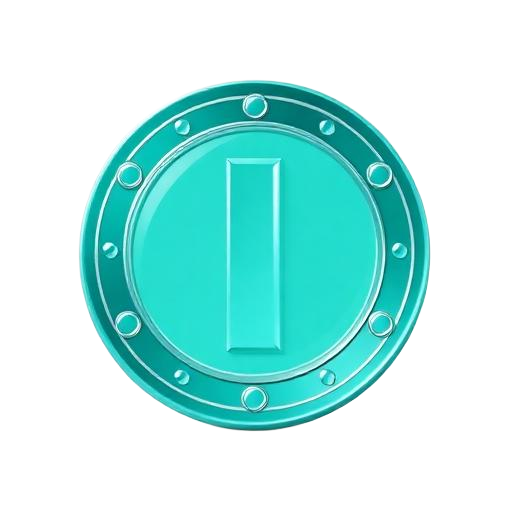
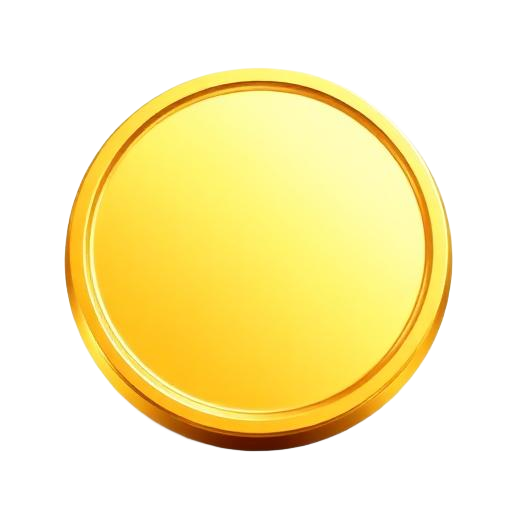
Changes

diff --git a/.lovable/plan.md b/.lovable/plan.md
@@ -1,62 +1,57 @@
-# Surface the Visual Recap CTA + verify the flow
+# Onboarding revamp + gold coins
 
-The `/recap` page already exists with everything you described:
-transcript paste + `.txt` upload, all 6 preference questions, `templateId =
-infoMode + "_" + visualMode`, 7-section recap, image slots (`coverHero`,
-`bigPictureScene`, `keyMoment_1..3`, `finalMemory`) generated server-side
-via Lovable AI, comic / zine / cards layout switch, cinematic loading
-state, premium dark UI. It's just missing a visible entry point.
+## 1. Gold coins (sitewide)
 
-## What to change
+- Delete `src/assets/coin-blue.png` (the originally uploaded reference).
+- Regenerate `src/assets/coin-cyan.png` and `src/assets/coin-navy.png` as
+  two gold variants (bright gold, deep amber-gold) using the same retro
+  3D coin look. Filenames stay the same so no import paths break.
+- Edit `src/components/floating-decor.tsx`: drop the `coin-blue` import
+  and remove it from the sprite pool. Other props (dice, joystick,
+  cassette, star, diamond) stay untouched.
 
-### 1. Add a prominent "Create Visual Recap" CTA on the attendee Home tab
+## 2. Onboarding `/` revamp (v1 "Arcade portal elite")
 
-In `src/routes/play.tsx`, in the Home tab (`tab === "home"`), add a new
-CTA card directly above the existing Event Wrapped CTA. Sibling design
-language — `bg-swoosh-2 hue-drift`, `<FloatingDecor variant="dense" />`,
-animated headline, navigates to `/recap`.
+Rewrite `src/routes/index.tsx` to match the approved direction:
 
-```text
-┌─────────────────────────────────────────┐
-│ NEW                                     │
-│ Create Visual Recap              →      │
-│ Turn a transcript into a comic, zine,   │
-│ or card-style summary.                  │
-└─────────────────────────────────────────┘
-```
+- Dark `bg-background` canvas, removes the existing top header bar
+  (cleaner portal feel — "Quest Connect / demo" chrome goes away on
+  this page only).
+- Header block:
+  - Gold "EVENT OS" pill (rounded, gold border + 10% gold fill).
+  - 4xl extrabold headline "One event." / "Three lenses." with the
+    second line as a cyan→blue gradient.
+  - Subhead "Run it. Play it. Sponsor it."
+- Three vertically stacked portal buttons (mobile-first, single column;
+  on `sm+` they relax into the same stacked layout but max-width 480):
+  - **Organizer** — cyan accent, cyan icon tile, blurred cyan/blue glow
+    halo on hover, links to `/auth?mode=admin`.
+  - **Attendee** — gold accent, gold icon tile, blurred gold/orange
+    halo on hover, links to `/auth`.
+  - **Sponsor** — slate accent, neutral icon tile, subtle halo, links
+    to `/sponsor`.
+  - Each card: `bg-slate-900/60` glass, `border-white/10`,
+    `backdrop-blur-xl`, rounded-2xl, kicker label + bold title + blurb
+    + arrow CTA, `active:scale-[0.98]`.
+- Floating gold coin sprites + a faint cyan dice motif behind the
+  cards (use the existing `FloatingDecor variant="ambient"` so it
+  picks up the now-all-gold coin pool).
+- Animated headlines via existing `AnimatedHeadline`.
+- Footer: small "No accounts. No passwords. Walk in." line.
 
-Uses the existing `FloatingDecor` and `AnimatedHeadline` so it matches
-the retro arcade vibe just shipped. `onClick={() => navigate({ to: "/recap" })}`.
-
-### 2. Keep the small "Visual recap" link in the side-quest tile
-
-That entry point stays — it's a useful per-quest shortcut. The new
-Home-tab CTA is the discoverable one.
-
-### 3. Verify the end-to-end flow
-
-After wiring:
-- Confirm `LOVABLE_API_KEY` exists via `fetch_secrets`; if missing,
-  provision it with `ai_gateway--create` (the server fn uses it for
-  text + image generation).
-- Click the CTA from `/play` → lands on `/recap`.
-- Paste a short transcript, walk the 6 questions, hit Generate.
-- Inspect console + network for errors; if image generation rate-limits
-  or fails, the existing code keeps text and falls back to placeholder
-  slots (already implemented).
-- Confirm the chosen format (Comic / Zine / Cards) renders the matching
-  layout in `recap-result.tsx`.
+All colors use Tailwind tokens already available; no `styles.css`
+changes required (the cyan/gold accents are arbitrary utility classes
+matching the rest of the app's tokens). `<Link>` from
+`@tanstack/react-router` is preserved for all three CTAs.
 
 ## Files
 
-- edit: `src/routes/play.tsx` — add the Home-tab CTA card.
-- verify only (no edits expected): `src/routes/recap.tsx`,
-  `src/lib/visual-recap.functions.ts`, `src/lib/recap-generator.ts`,
-  `src/components/recap/recap-result.tsx`,
-  `src/components/recap/image-slot.tsx`.
+- delete: `src/assets/coin-blue.png`
+- regen: `src/assets/coin-cyan.png`, `src/assets/coin-navy.png` (gold)
+- edit: `src/components/floating-decor.tsx` (drop blue coin)
+- edit: `src/routes/index.tsx` (full rewrite to v1 layout)
 
 ## Out of scope
 
-No backend / RLS / data changes. No rebuild of the recap page itself
-unless verification surfaces a real bug — in which case I'll fix only
-what's broken.
+No data, RLS, auth, server, or business-logic changes. Other pages
+keep their current layout — only `/` is restyled.
